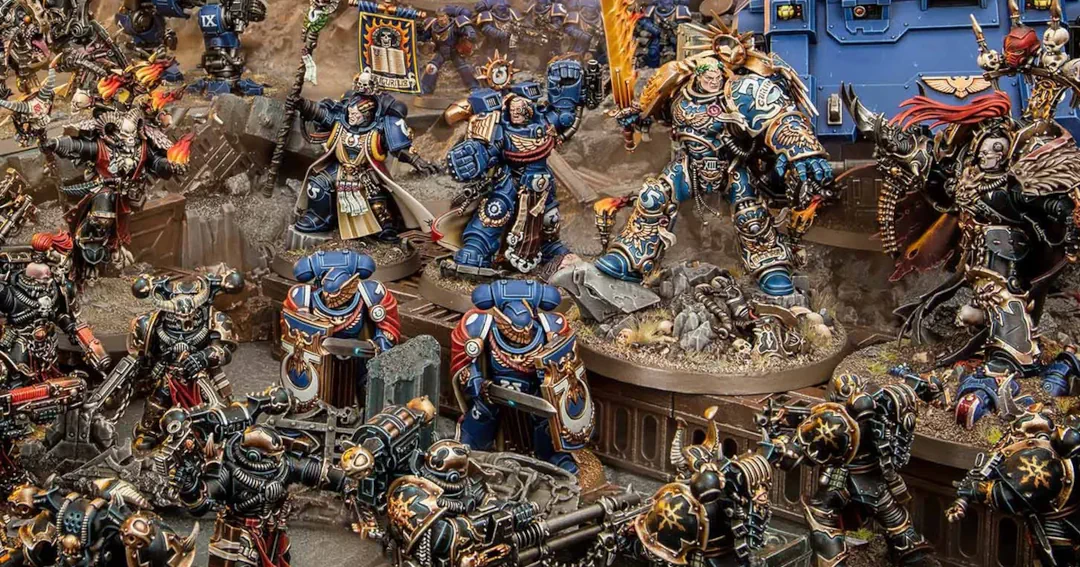
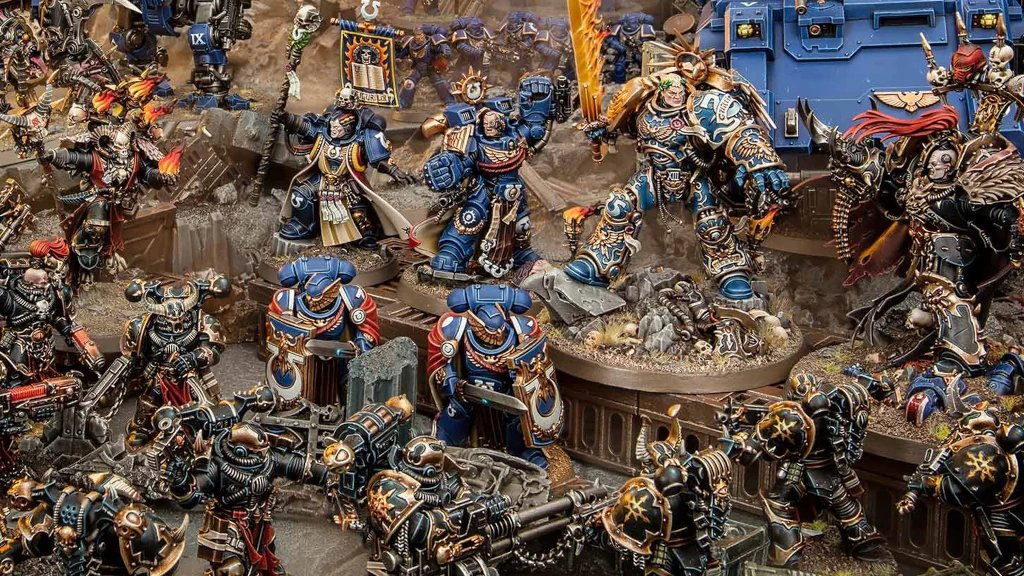
refactor: remove unused assets and improve layout structure in various components

diff --git a/app/warhammer-40k/page.tsx b/app/warhammer-40k/page.tsx
@@ -1,11 +1,8 @@
 import Image from 'next/image'
 import Link from 'next/link'
 
-import dice from '@/app/assets/wh40k/dice.webp'
 import wh40kTitle from '@/app/assets/wh40k/wh40k-battle.webp'
 import { WH40K_TITLE } from '@/app/constants'
-import { DiceRoll } from '@/app/ui/DiceRoll'
-import { Section } from '@/app/ui/Section'
 import { SourceLink } from '@/app/ui/SourceLink'
 import { generatePageMetadata } from '@/lib/metadata'
 
@@ -19,34 +16,39 @@ export default async function Page() {
     <>
       <h1>{WH40K_TITLE}</h1>
 
-      <Section>
+      <section>
         <p>
-          The official{' '}
-          <Link href="https://assets.warhammer-community.com/warhammer40000_core&key_corerules_eng_24.09-5xfayxjekm.pdf">
+          Warhammer 40,000 (WH40K) is more of a hobby, involving a game. The{' '}
+          <Link
+            href="https://assets.warhammer-community.com/warhammer40000_core&key_corerules_eng_24.09-5xfayxjekm.pdf"
+            target="_blank"
+          >
             Core Rulebook
           </Link>{' '}
-          describes Warhammer 40,000 as a tabletop wargame in which players
-          command armies of miniatures and attempt to defeat their opponents
-          through a mixture of skill, tactics, and luck.
+          describes it as a tabletop wargame in which players command armies of
+          miniatures in an attempt to win through a mixture of skill, tactics,
+          and luck. It's that, but it also involves collecting and painting
+          those miniatures, and the huge amount of books and lore.
         </p>
 
         <Image
           src={wh40kTitle}
           alt="Space Marines doing battle with Chaos Space Marines"
-          className="article-img"
+          className="picture profile-img object-[0%_10%]"
         />
 
         <p>
-          That very rulebook, along with the various army codexes, should be the
-          primary source of information regarding Warhammer 40,000 rules. They
-          are updated periodically, and the physical nature of the game tends to
-          create disputes about how situations should be resolved. Thus,
-          everywhere there are rules, we see overly detailed explanations.
+          For the purpouse of this section, we'll focus on the game itself and
+          the armies of the latest edition (10th, 11th has been announced). Each
+          edition changes a bit of the rules and units, so one should always
+          refer to the official rulebook and codexes first.
         </p>
-      </Section>
+      </section>
 
-      <Section title="Our sources" id="our-sources">
-        <div className="flex-wrapper">
+      <section>
+        <h2 id="our-sources">Our sources</h2>
+
+        <div className="flex-list">
           <SourceLink
             href="https://www.warhammer.com/"
             text="Warhammer Official"
@@ -77,79 +79,7 @@ export default async function Page() {
             type="reddit"
           />
         </div>
-      </Section>
-
-      <Section title="About this documentation" id="about-this-documentation">
-        <p>
-          Warhammer 40,000 is a complex and ever-changing game. Our goal is to
-          explain the rules as briefly as reasonable, then provide meaningful
-          examples and analysis of the vast variety of characters, weapons, and
-          units. We do this by summarizing the knowledge from the sources listed
-          above.
-        </p>
-
-        <p>
-          We have chosen to sacrifice lore and rule edge cases for clarity and
-          simplicity. Our focus is casual and competative play.
-        </p>
-
-        <h3 id="dice-rolls">Dice rolls</h3>
-
-        <div className="sm:flex gap-4 items-start">
-          <Image
-            src={dice}
-            alt="Space Marines doing battle with Chaos Space Marines"
-            className="article-img mt-0 sm:w-1/2"
-          />
-
-          <div className="sm:w-1/2">
-            <p className="mt-0">
-              Warhammer 40,000 is a game of dice. This brings a degree of
-              chance/randomness, making each battle unique, unpredictable and
-              perhaps a bit annoying at times.
-            </p>
-
-            <p>
-              <strong>A typical six-sided dice is called a D6</strong> - a
-              common abbreviation from dice games (e.g. Dungeons and Dragons).
-              Most throws use one or multiple D6s. If it's multiple the number
-              will be added in front like 3D6.
-            </p>
-            <p>
-              Some rules state that a <strong>three-sided dice (D3)</strong>{' '}
-              must be rolled. In that case, split a regular D6 into three
-              segments: <strong>1 or 2 = 1, 3 or 4 = 2, 5 or 6 = 3</strong>.
-              Dice throws are described with a section like this one:
-            </p>
-          </div>
-        </div>
-
-        <DiceRoll
-          title="Example dice roll"
-          dice="2D6"
-          effect="Which means roll two six-sided dice and compare the result to some value."
-        />
-
-        <p>
-          In the case where a dice roll adds to <strong>movement inches</strong>{' '}
-          (e.g. advancing during movement phase), it can be written as{' '}
-          <strong>D6"</strong>, which means roll a six-sided dice and add the
-          result as inches. Another particular case is then a dice roll
-          determines the outcome of a <strong>datasheet attribute</strong>. For
-          example <strong>A6d</strong> means roll a six-sided dice and the
-          result is how many attacks the weapon makes.
-        </p>
-
-        <h3 id="re-rolls">Re-rolls</h3>
-
-        <p>
-          There are a great many rules that allow players to re-roll certain
-          results. When this applies, they get to{' '}
-          <strong>choose which dice to re-roll</strong>, but they can only do it{' '}
-          <strong>only once</strong>. You must re-roll all dice if several need
-          adding together (e.g. 2D6, 3D6).
-        </p>
-      </Section>
+      </section>
     </>
   )
 }

diff --git a/app/ui/LayoutShell.tsx b/app/ui/LayoutShell.tsx
@@ -33,12 +33,12 @@ export function LayoutShell({ children }: { children: React.ReactNode }) {
         onToggleMobileMenu={toggleMobileMenu}
       />
 
-      <div className="flex relative">
+      <div className="flex relative grow">
         <aside className="hidden lg:flex">
           <SideNavigation />
         </aside>
 
-        <main tabIndex={-1} className="edge-padding">
+        <main tabIndex={-1} className="edge-padding max-w-3xl mx-auto pb-12">
           {children}
         </main>
 
@@ -49,18 +49,10 @@ export function LayoutShell({ children }: { children: React.ReactNode }) {
 
       <div
         id="mobile-nav"
-        className={`fixed top-0 left-0 w-80 h-full transition z-40 lg:hidden ${isMobileMenuOpen ? 'translate-x-0' : '-translate-x-full'}`}
+        className={`fixed top-0 left-0 h-full transition z-40 lg:hidden ${isMobileMenuOpen ? 'translate-x-0' : '-translate-x-full'}`}
       >
         <SideNavigation isMobile />
       </div>
-
-      {isMobileMenuOpen && (
-        <div
-          className="fixed inset-0 blurred-surface z-30 lg:hidden"
-          onClick={toggleMobileMenu}
-          aria-hidden="true"
-        />
-      )}
     </div>
   )
 }

diff --git a/app/globals.css b/app/globals.css
@@ -93,6 +93,14 @@
   @apply border-2 border-foreground/10 rounded p-4 shadow-md space-y-4 text-justify;
 }
 
+@utility picture {
+  @apply rounded shadow-md;
+}
+
+@utility profile-img {
+  @apply max-h-56 object-cover;
+}
+
 @layer base {
   a {
     @apply flex-center hover:text-primary active:text-primary/70 transition-colors;
@@ -101,7 +109,7 @@
   h1,
   h2,
   h3 {
-    @apply tracking-[-0.022em] font-bold leading-[1.15] mt-9 mb-4;
+    @apply tracking-[-0.022em] font-bold leading-[1.15] mt-9 mb-4 text-left;
   }
 
   h1 {
@@ -127,7 +135,7 @@
 
   main {
     a {
-      @apply underline;
+      @apply inline-flex underline;
     }
 
     section {
@@ -135,20 +143,16 @@
     }
 
     ul {
-      @apply ml-6 list-disc [&_ul]:list-[revert] [&_ul]:ml-6 text-justify;
+      @apply ml-6 list-disc [&_ul]:list-[revert] [&_ul]:ml-6;
     }
 
     ol {
-      @apply ml-6 list-decimal text-justify;
+      @apply ml-6 list-decimal;
     }
   }
 
   .edge-padding {
     @apply px-4 lg:px-8;
-  }
-
-  .profile-img {
-    @apply my-6 sm:max-h-56 object-cover rounded shadow-md;
   }
 
   .circle-icon {

diff --git a/app/ui/SideNavigation.tsx b/app/ui/SideNavigation.tsx
@@ -12,10 +12,10 @@ export const SideNavigation: React.FC<{ isMobile?: boolean }> = ({
 
   return (
     <nav
-      className={`edge-padding blurred-surface w-72 divide-y divide-foreground/10 ${
+      className={`edge-padding blurred-surface divide-y divide-foreground/10 ${
         isMobile
           ? 'h-dvh overflow-y-auto pt-20'
-          : 'sticky-aside max-h-[calc(100dvh-6rem)] overflow-y-auto'
+          : 'sticky-aside max-h-[calc(100dvh-6rem)] w-72 overflow-y-auto'
       }`}
     >
       <div className="lg:hidden font-bold pb-4 mb-4 space-y-2">

diff --git a/app/layout.tsx b/app/layout.tsx
@@ -53,7 +53,7 @@ export default function RootLayout({
         <meta name="viewport" content="width=device-width, initial-scale=1.0" />
       </head>
       <body
-        className={`${notoSerif.variable} leading-[1.6] antialiased h-full font-serif selection:bg-primary selection:text-background`}
+        className={`${notoSerif.variable} leading-[1.6] font-medium antialiased h-full font-serif selection:bg-primary selection:text-background`}
       >
         <NavigationProvider sections={sections}>
           <LayoutShell>{children}</LayoutShell>

diff --git a/app/ui/Header.tsx b/app/ui/Header.tsx
@@ -77,7 +77,7 @@ export const Header = ({
       </section>
 
       <nav>
-        <div className="hidden lg:flex flex-list gap-4">
+        <div className="hidden lg:flex flex-list gap-4 text-lg">
           {ROOT_NAVIGATION_ITEMS.map((item) => (
             <Anchor key={item.href} href={item.href}>
               {item.shortName}

diff --git a/app/constants.tsx b/app/constants.tsx
@@ -2,7 +2,7 @@ export const METADATA_SUFFIX = '| Casual Meta'
 
 export const WH40K_BASE_URL = '/warhammer-40k'
 export const WH40K_TITLE = 'Warhammer 40,000'
-export const SHORT_WH40K_TITLE = 'WH 40K'
+export const SHORT_WH40K_TITLE = 'WH40K'
 
 export const MK_BASE_URL = '/mortal-kombat'
 export const MK_TITLE = 'Mortal Kombat'
